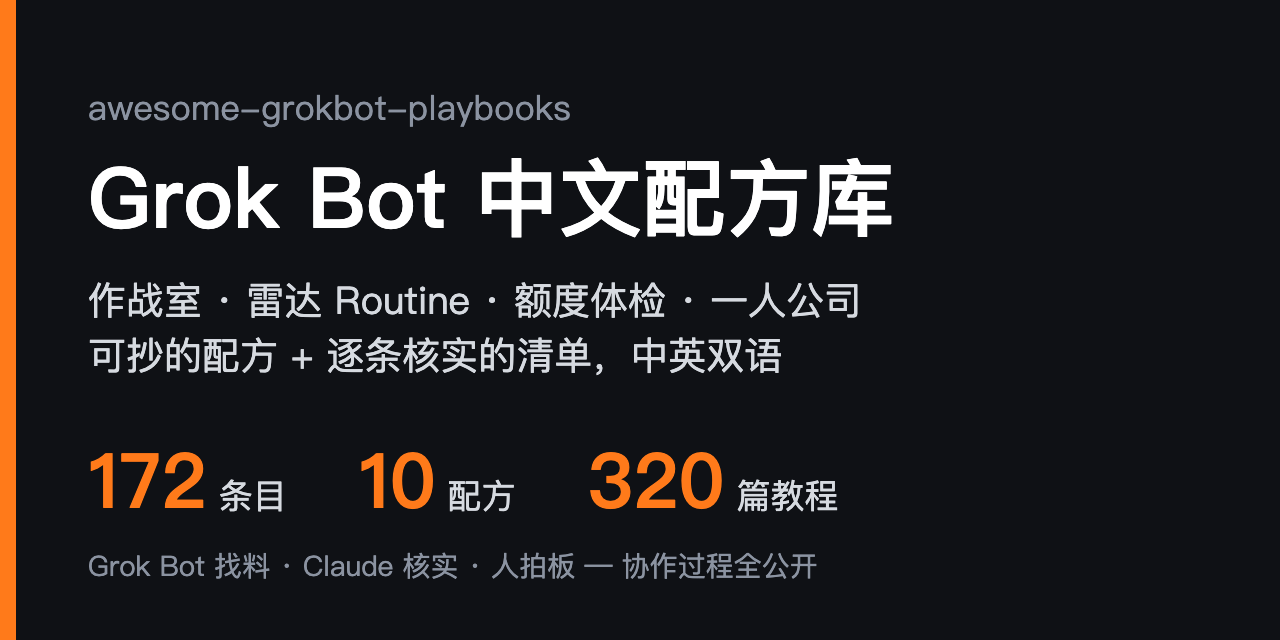
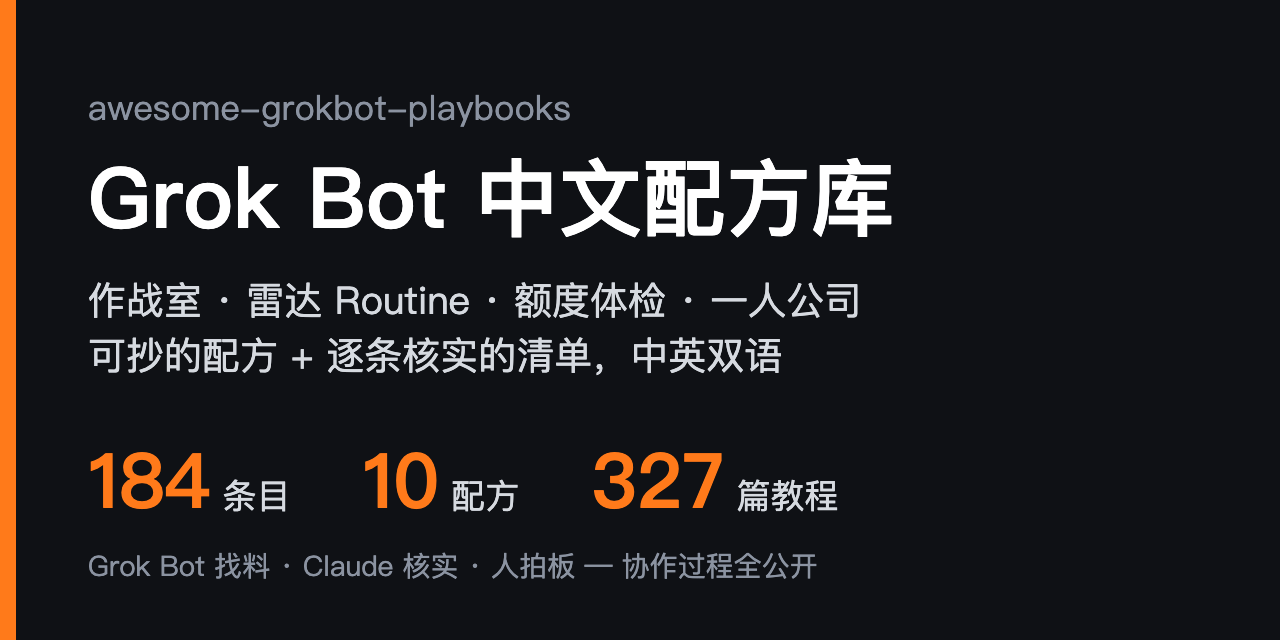
collab: loop #99 entries 172 -> 184, x-articles 287 -> 294 (tutorials 320 -> 327), recheck 11-02/11-03 batch

Changed region(s): [[0.0938, 0.6875, 0.25, 0.8125], [0.2812, 0.7188, 0.4062, 0.8125], [0.4688, 0.6875, 0.5625, 0.8125]]

diff --git a/README.en.md b/README.en.md
@@ -8,9 +8,9 @@
 
 <p align="center">
   <a href="https://github.com/sit-in/awesome-grokbot-playbooks/stargazers"><img src="https://img.shields.io/github/stars/sit-in/awesome-grokbot-playbooks?style=flat-square&color=ff7a1a" alt="Stars"></a>
-  <img src="https://img.shields.io/badge/entries-172-blue?style=flat-square" alt="Entries">
+  <img src="https://img.shields.io/badge/entries-184-blue?style=flat-square" alt="Entries">
   <img src="https://img.shields.io/badge/recipes-10-blueviolet?style=flat-square" alt="Recipes">
-  <img src="https://img.shields.io/badge/last%20verified-2026--11--01-success?style=flat-square" alt="Last verified">
+  <img src="https://img.shields.io/badge/last%20verified-2026--11--03-success?style=flat-square" alt="Last verified">
   <a href="https://github.com/sit-in/awesome-grokbot-playbooks/actions/workflows/link-check.yml"><img src="https://github.com/sit-in/awesome-grokbot-playbooks/actions/workflows/link-check.yml/badge.svg" alt="link-check"></a>
   <a href="CONTRIBUTING.en.md"><img src="https://img.shields.io/badge/PRs-welcome-brightgreen?style=flat-square" alt="PRs welcome"></a>
   <img src="https://img.shields.io/badge/unofficial-lightgrey?style=flat-square" alt="Unofficial">
@@ -25,10 +25,10 @@
 
 | | |
 |---:|---|
-| **172** | entries, each checked via the GitHub API or the live page: it exists, is still maintained and is actually about Grok Bot; license caveats are noted in the review |
+| **184** | entries, each checked via the GitHub API or the live page: it exists, is still maintained and is actually about Grok Bot; license caveats are noted in the review |
 | **10** | copy-paste recipes in one format: scenario → inputs → steps → prompt → output → pitfalls, all examples sanitized |
 | **3 levels** | of verification: ✅ run end-to-end · 🔍 docs and config reviewed · no mark = repo verified only. ✅ is only for things actually run |
-| **320** | curated community tutorials and X articles ([33 tutorials](docs/community-tutorials.md) + [287 articles from top X creators](docs/x-articles.md)) plus the maintainer's own series, each checked for liveness, author and date |
+| **327** | curated community tutorials and X articles ([33 tutorials](docs/community-tutorials.md) + [294 articles from top X creators](docs/x-articles.md)) plus the maintainer's own series, each checked for liveness, author and date |
 | **2 AIs** | maintain it: Grok Bot scouts daily, Claude Code verifies and writes reviews, a human makes the calls. The full log is public in [`.collab/`](.collab/README.md) |
 
 Compared with the English ecosystem index [awesome-grok-bot](https://github.com/ZeroPointRepo/awesome-grok-bot), which is broad, this repo focuses on **solo founders, multi-bot war rooms, radar routines and copy-paste recipes**. Quality over quantity.
@@ -61,19 +61,19 @@ It is a different product from the Grok chat assistant and the Grok Build coding
 
 ## 🆕 Recently added
 
+- **11-03** Added twelve: run start and finish cards [run-cards](https://github.com/rystedtcreative/run-cards), Discord DMs that wake your bot [grok-discord-bridge](https://github.com/RealDragonJT/grok-discord-bridge), messaging with Codex Desktop threads [GrokRelay](https://github.com/w-yyh/grok-relay), taking over local coding agents via Herdr [grokbot-bridge-herdr](https://github.com/Phoobobo/grokbot-bridge-herdr), keeping the cloud computer awake [bot-keepalive](https://github.com/realTaki/bot-keepalive), a local team dashboard [Grokbot City](https://github.com/sleeplesshan/grokbot-city), the open template catalog [Markcial/bots](https://github.com/Markcial/bots), plus Nix packaging, a token one-pager, a DJ mix pipeline, a read-only Strava MCP and agent-mesh; X articles grew to 294
 - **11-01** Added fifteen: the 800-template community directory [Grok Bot Shelf](https://grokbotshelf.com), a client for people with many bots [GrokDeck](https://github.com/Gamedesigner/grokdeck), Siri / HomePod access via [Homebot](https://github.com/lumpinif/Homebot), duplicate-safe task handoff [Grok Bot Bridge](https://github.com/runesleo/grok-bot-bridge), headless Linux servers as bot computers with [grokbot-tunnel](https://github.com/exa-pub/grokbot-tunnel), an Omarchy voice hotkey, the multi-bot ops handbook [grok-bot-ops](https://github.com/yohei1126/grok-bot-ops), and three hardware builds: a voice orb, a Stack-chan style companion and a Pixel Tablet face, plus the self-updating bot catalog template [Bot Catalog](https://github.com/JaxonWright/bot-catalog-for-grok-bot-template), the [bots skill](https://github.com/raphaelsalaja/skills/tree/main/skills/bots) that puts your bots on your site, the local project dashboard [Desk](https://github.com/TeebooTed/desk), the encrypted mail viewer [Grok Bot Inbox](https://github.com/mascarock/grokbot-inbox) and [Vesper](https://github.com/Vedant817/vesper-grok-bot-bridge) for supervising coding agents; X articles grew to 287
 - **10-31** Added eight: Windows desktop bot beacons [Bot Beacons](https://github.com/SnazzyGaz/bot-beacons), encrypted incremental cloud-computer backups [Grok Box](https://github.com/dorukardahan/grokbox), terminal agents handing tasks to bots with [grokctl](https://github.com/lucasjsbarbosa/grokctl), a task mailbox shared by Claude and bots [agent-relay](https://github.com/pawelmical/agent-relay), the Tesla status plugin [Vehicle Fleet](https://github.com/matthew-rutledge-dev/grokbot-vehicle-fleet), a local quota check-in dashboard [Usage & Check-in](https://github.com/yuehzhan/grokbot-usage-checkin), a rescue kit for templates missing skills [Unfinished Botness](https://github.com/brefledev/unfinished-botness) and a template repo that pulls the latest skill every run [grokbot-skills (datadda27)](https://github.com/datadda27/grokbot-skills)
-- **10-30** Added one: paced directory-backlink playbook [backlink-pilot](https://github.com/s87343472/backlink-pilot); removed grok-starter-kit after its repo was deleted; X articles grew to 265
 
 Full history: [README commits](https://github.com/sit-in/awesome-grokbot-playbooks/commits/main/README.md).
 
 ## 📚 Contents
 
 - [Official & SDK](#-official--sdk) (6) - official docs, marketplace, SDKs and CLIs
-- [Templates & directories](#-templates--directories) (17) - template libraries, bot-share indexes and use-case sites; check here first
-- [Skills & Playbooks](#-skills--playbooks) (62) - skills, MCP, single templates, copy-paste profiles
-- [Multi-bot teams](#-multi-bot-teams) (35) - war rooms, coordinators, multi-agent work
-- [Routines & Digests](#-routines--digests) (11) - scheduled radars, weekly reviews, usage control
+- [Templates & directories](#-templates--directories) (18) - template libraries, bot-share indexes and use-case sites; check here first
+- [Skills & Playbooks](#-skills--playbooks) (71) - skills, MCP, single templates, copy-paste profiles
+- [Multi-bot teams](#-multi-bot-teams) (36) - war rooms, coordinators, multi-agent work
+- [Routines & Digests](#-routines--digests) (12) - scheduled radars, weekly reviews, usage control
 - [Chinese solo-founder](#-chinese-solo-founder) (6) - global support, WeChat, Chinese configs
 - [Self-hosted bots](#-self-hosted-bots) (16) - stay off the cloud, bring your own model
 - [Hardware](#-hardware) (7) - give your bot a physical front end
@@ -111,6 +111,7 @@ Full history: [README commits](https://github.com/sit-in/awesome-grokbot-playboo
 - [Lingverse](https://github.com/lingverse-ai/lingverse) - A Chinese series of Grok Bots: each one is a one-click-import bot with a single job. The first, Moling, writes long-form posts from work you actually did, then adapts them for each platform. Content CC BY 4.0, code MIT. Tags: `template` `writing` `chinese`
 - [Chief of Staff](https://github.com/twhit223/grok-bot-cos) - A reproducible chief-of-staff bot: goals and open items, a morning focus brief, a midday inbox check, an end-of-day brief, next-day meeting prep at night and a Friday wind-down as five routines, plus skills for 1:1 prep and meeting notes; connects Notion, Slack, Calendar, Gmail, Drive and Linear. The share link is still team-scoped for some teams, so you can build it by hand from the repo. MIT. Tags: `template` `chief-of-staff` `routine`
 - [Bot Catalog for Grok Bot](https://github.com/JaxonWright/bot-catalog-for-grok-bot-template) - A template for a self-updating bot catalog. A bot added from a share link is a copy, so the creator's later fixes never reach it; here every bot carries a daily routine that checks the repo for a newer release of itself, shows you the changelog and a diff link, and updates only if you say yes (automatic checks can be turned off). To start your own catalog, add the Catalog Manager and say "Set up my catalog": it connects GitHub, creates the repo from the template, adds branch protection and remembers which personal details must never be published, and nothing personal is pushed without your OK in chat. Needs the GitHub connector; the template is GPL-3.0, your own bots can use another license. Tags: `directory` `templates` `routine` `github`
+- [Markcial/bots](https://github.com/Markcial/bots) - An open catalog of Grok Bot templates, including the Distributed Workforce Router and the Perpetual Learning Machine, each with a share link plus scripts and starter files where the bot needs tools. Everything is plain text, so you can read a bot before installing it and change it afterwards. The router decides between doing a task itself, recommending a template from the catalog and drafting a new bot for a job that keeps coming back. MIT. Tags: `templates` `directory` `router`
 
 <sub>[⬆ Back to contents](#-contents)</sub>
 
@@ -178,6 +179,15 @@ Full history: [README commits](https://github.com/sit-in/awesome-grokbot-playboo
 - [bots skill (raphaelsalaja/skills)](https://github.com/raphaelsalaja/skills/tree/main/skills/bots) - Puts the Grok Bots you pick on your personal site. You paste one prompt into your primary bot: it lists every bot and waits for your picks, has each picked bot check itself for emails, client names, internal links, keys and other private details and propose fixes that apply only after you approve, then hands you a checklist, because publishing the template and copying its link stay with you. Your coding agent then builds one data file, a shakeable physics pile, cards and an org-chart page, with shapes and colors taken from each bot's public page. Part of the author's collection of interface skills; install with `npx skills add raphaelsalaja/skills`; needs matter-js. MIT. Tags: `skill` `portfolio` `share` `privacy`
 - [Desk](https://github.com/TeebooTed/desk) - A single-file local project dashboard you open as `file://`, organized by project and progress rather than kanban columns. Its "Message bot" box sends a note through a local relay to a webhook routine, and a twice-daily routine writes status.json to refresh progress. Paste the setup prompt from the README to your bot to install it; the webhook key goes only into the relay config. Data stays on your machine by default, with an optional Solid pod. The one-line install is `curl | bash` and sets up the local relay and autostart, so clone and read install.sh first if you prefer. MIT. Tags: `dashboard` `webhook` `routine` `local`
 - [Grok Bot Inbox](https://github.com/mascarock/grokbot-inbox) - A web inbox for the mail your bot receives, deployed to your own free Vercel project. On every new message the bot publishes an encrypted snapshot; the key sits after `#` in your link and never reaches a server, so the page only stores ciphertext. Replying from the page leaves an encrypted draft for the bot, which shows a draft card in chat within about 15 minutes and sends only after you confirm. The one-click template link in the README is still a placeholder, so for now deploy it by following the docs; there is a live demo. MIT. Tags: `email` `inbox` `privacy` `vercel`
+- [run-cards](https://github.com/rystedtcreative/run-cards) - Put `run-cards` in front of a Grok Build or Claude Code command when a bot hands off a long coding run: you get an opening card (tool, model, effort, prompt) and an honest closing card (how it ended, duration, tokens, the start of the output), each as a PNG and a Markdown version, so the chat shows whether the run really finished. Also works as a plain CLI wrapper. Unofficial. MIT. Tags: `coding-agent` `status` `cli`
+- [grokbot-mixer](https://github.com/davidgeorgehope/grokbot-mixer) - A DJ Grok Bot's liquid DnB mix pipeline: full-track analysis picks vocal-free mix points, 16-bar equal-power crossfades, guardrail scripts, autofix and an eval scorer, producing 60-minute-plus continuous mixes with audio-reactive visuals. It is a code snapshot of the author's bot workspace with no audio, so bring your own tracks; useful as a reference for putting guardrails and scoring around a creative bot. MIT. Tags: `music` `creative` `eval`
+- [grok-discord-bridge](https://github.com/RealDragonJT/grok-discord-bridge) - When someone DMs or @mentions your own Discord bot, it POSTs the event to a Grok Bot routine webhook to wake your bot, which replies through the Discord REST API with the same bot token. No shared bot or hosted relay in the middle, and there is an owner allowlist. AGENT-SETUP.md lets an agent install it; you only supply the bot token, webhook URL and key. MIT. Tags: `discord` `webhook` `routine`
+- [GrokRelay](https://github.com/w-yyh/grok-relay) - Lets Grok Bot agents and existing Codex Desktop threads find each other, exchange messages and get replies in their original conversations, so both keep their context and you can follow the exchange in both apps. Public alpha, Windows only; the desktop adapters use internal or unstable interfaces; unofficial. Chinese docs. MIT. Tags: `codex` `bridge` `windows`
+- [grokbot-bridge-herdr](https://github.com/Phoobobo/grokbot-bridge-herdr) - Through Herdr, Grok Bot can launch, watch and take over your local coding-agent panes (grok, codex), and you can hand your own panes to the bot and take them back. When an agent goes done, idle or blocked, it sends a small deduplicated JSON to a webhook with no terminal output or secrets. Also works with ChatGPT dots. Docs in English and Chinese. MIT. Tags: `herdr` `coding-agent` `webhook`
+- [grok-bot-nix](https://github.com/ponelat/grok-bot-nix) - Unofficial Nix packaging of the Grok Bot Linux desktop app (the official AppImage): a pinned, hash-checked release or an always-latest launcher, usable from flakes or a classic configuration.nix. The repo holds only Nix code and downloads the app from the official CDN at build time; tested on x86_64, aarch64 untested. MIT. Tags: `linux` `nix` `desktop`
+- [bot-keepalive](https://github.com/realTaki/bot-keepalive) - A skill that keeps the cloud computer awake during long jobs. The computer suspends after about 5 idle minutes and freezes background `nohup` and `tmux` work, and routines (5-minute minimum, often late) can't cover it. It registers the jobs to guard and runs one low-effort subagent that makes a tool call about every 13 minutes until they finish. Guarding keeps spending usage, about 1.8M tokens a day in the author's own use. English and Chinese docs. MIT. Tags: `skill` `computer` `long-running`
+- [strava-grokbot-bridge](https://github.com/naoiseirwin/strava-grokbot-bridge) - A read-only Strava MCP (fork of eddmann/strava-mcp) that runs on your own Grok Bot cloud computer as a stdio command, with no public host. Strava authorization is done on the cloud computer via Take over, and tokens never go into chat. Not affiliated with Strava; same author as the Tesla connector above. MIT. Tags: `mcp` `fitness` `read-only`
+- [agent-mesh](https://github.com/xiaozhenliu/agent-mesh) - Puts local Claude Code, Codex, pi and DeepSeek Harness sessions and a cloud Grok Bot in one private Reason Network team: either side can start a conversation and replies wake the other side, with no public IP, Docker or separate server. macOS only; includes an agent install runbook, cloud setup and routine prompts, docs in English and Chinese. MIT. Tags: `coding-agent` `bridge` `routine`
 
 <sub>[⬆ Back to contents](#-contents)</sub>
 
@@ -218,6 +228,7 @@ Full history: [README commits](https://github.com/sit-in/awesome-grokbot-playboo
 - [agent-relay](https://github.com/pawelmical/agent-relay) - A remote MCP task mailbox on Cloudflare Workers: Grok Bot (bearer token) and Claude (OAuth) leave tasks for each other, claim them and write results back, and a webhook can wake the assignee's routine with a doorbell that carries no task text. One-click deploy, now open to any MCP agent. Everyone shares one secret, and finished tasks are deleted after 30 days. MIT. Tags: `mcp` `cloudflare` `handoff`
 - [grok-bot-ops](https://github.com/yohei1126/grok-bot-ops) - Ops hygiene for running several bots, documentation only: where shared rules live, when to create or retire a bot, long-lived bots versus one-off chats, and a monthly audit checklist, aimed at lower usage and cleaner handoffs. Apache-2.0. Tags: `multi-agent` `ops` `usage`
 - [Vesper Grok Bot Bridge](https://github.com/Vedant817/vesper-grok-bot-bridge) - Makes Grok Bot the supervisor of your coding agents: it starts a task, reads the reply, answers delegated technical questions, asks for rework in the same session and checks real verification output before accepting. Two published templates: T3 Code users go through T3 Connect with no bridge to install; other coding CLIs need the author's local MCP bridge (npm package grok-bot-mcp-agent), which can enroll several CLIs. Importing a template installs no software and signs in to no coding account. CI. MIT. Tags: `coding-agent` `mcp` `supervisor`
+- [Grokbot City](https://github.com/sleeplesshan/grokbot-city) - A local dashboard and shared wiki for a bot team: write task briefs, assign one bot or a Boss with up to five members, and once you dispatch, the main bot picks it up and reports each step through a CLI, with results kept in the wiki. The app does not connect to Grok or run a model; your main bot needs access to the computer it runs on. English and Korean docs. MIT. Tags: `dashboard` `team` `wiki`
 
 <sub>[⬆ Back to contents](#-contents)</sub>
 
@@ -234,6 +245,7 @@ Full history: [README commits](https://github.com/sit-in/awesome-grokbot-playboo
 - [Grok Bot Usage & Check-in](https://github.com/yuehzhan/grokbot-usage-checkin) - A local web dashboard that logs your weekly quota percentage and each day's spend, plus a note of what you had the bot do, so you can later look up which days cost the most; data stays on your machine, with one-click installers for Windows, Mac and Linux. Automatic reading runs Grok Build in the background and reads its `/usage` screen; it is tested on Linux and still experimental on Windows and Mac, where you can type the percentage in by hand. Note that the installer sets Grok Build's default permission mode to auto. MIT. Tags: `quota` `dashboard` `local`
 - [GrokGauge](https://github.com/stevencombs/GrokGauge) - A macOS menu-bar usage gauge: one ring for your whole SuperGrok weekly pool, split into how much Grok, Grok Bot and Cursor each used, plus days to reset; installs with one Homebrew command. Unofficial and reads undocumented data sources that can change; not notarized by Apple, so the cask removes the quarantine flag for you. MIT. Tags: `quota` `macos` `menu-bar`
 - [GrugBot Console](https://github.com/devrecated/grokbot-management-console) - Routine control panel: see every bot's routines and runs on one page, pause, reschedule or edit prompts, stop everything with one button, and read system logs from the cloud computer. Self-host on Next.js + Postgres with a few scripts on the box reporting back; check which logs it reads before deploying. MIT. Tags: `routine` `dashboard` `self-hosted`
+- [Grok Bot token one-pager (smdistefano)](https://github.com/smdistefano/grok-bot) - A post-mortem of a day that burned a week of usage: five ways tokens get spent (context tax, fan-out, loops, skill bloat, wakeups you didn't type) with expensive versus cheap asks, plus standing rules such as asking after five tool calls, no polling, capping on-demand spend and pausing unused routines. Apache-2.0. Tags: `budget` `tokens` `rules`
 
 <sub>[⬆ Back to contents](#-contents)</sub>
 
@@ -293,7 +305,7 @@ Full history: [README commits](https://github.com/sit-in/awesome-grokbot-playboo
 - [Two bots leaked a CEO's bank balance to Slack: repro and guardrail](https://github.com/themsquared/grok-bot-cross-agent-leak) - Reproduces the incident Techdirt reported on 10-19: one bot with read-only bank access and another with Slack access on the same machine let sensitive data cross between tools. Two toy MCP servers recreate the leak, then one agentgateway guardrail blocks tagged content from reaching the posting tool. Comes with the author's write-up. Apache-2.0. Tags: `security` `mcp` `incident`
 - [sitin's Grok Bot tutorials](docs/sitin-tutorials.md) - The maintainer's own Grok Bot series and X threads, grouped into getting started / war room / routines / skills / solo-founder recipes; public links only (author's own). (Chinese) Tags: `chinese` `tutorials` `author`
 - [Community Grok Bot tutorials](docs/community-tutorials.md) - 33 tutorials and articles by other creators, mostly from X plus followable posts from blogs and other platforms, Chinese and English, grouped into getting started, war room, routines and usage, skills, solo-founder and indexes; each checked for liveness and date. (Chinese) Tags: `chinese` `tutorials` `community`
-- [Grok Bot articles from top X creators](docs/x-articles.md) - 287 long-form X articles and threads in Chinese and English, grouped into getting started, war room, routines and usage, skills, and solo-founder; only tutorials and real setups with genuine traction, and any numbers are the authors' own claims. (Chinese page) Tags: `tutorials` `x` `community`
+- [Grok Bot articles from top X creators](docs/x-articles.md) - 294 long-form X articles and threads in Chinese and English, grouped into getting started, war room, routines and usage, skills, and solo-founder; only tutorials and real setups with genuine traction, and any numbers are the authors' own claims. (Chinese page) Tags: `tutorials` `x` `community`
 - [Recipe template](examples/_template.md) - Format to follow before submitting a recipe: scenario / input / steps / prompt / output / pitfalls. (Chinese) Tags: `template` `learning`
 
 <sub>[⬆ Back to contents](#-contents)</sub>

diff --git a/.collab/recheck.md b/.collab/recheck.md
@@ -23,45 +23,27 @@ Claude 维护。仓库没过收录门槛（见 [CONTRIBUTING.md](../CONTRIBUTING
 | [fredericalix/my-botstack](https://github.com/fredericalix/my-botstack) | 11-08 | 2★ · MIT · 建 10-18 · 最近提交 10-18 | 11-01 第 2 次延期：仍无新提交，再不过线就移出。 |
 | [shagghiesuperstar/veilbreaker](https://github.com/shagghiesuperstar/veilbreaker) | 11-08 | 0★ · MIT · 建 10-18 · 最近提交 10-21 | 11-01 第 2 次延期：仍无新提交，再不过线就移出。 |
 | [stland6338/ai-tool-inventory](https://github.com/stland6338/ai-tool-inventory) | 11-08 | 0★ · MIT · 建 10-18 · 最近提交 10-18 | 11-01 第 2 次延期：仍无新提交，再不过线就移出。 |
-| [ChamathRosh/whatshouldmybotdo-connector](https://github.com/ChamathRosh/whatshouldmybotdo-connector) | 11-02 | 0★ · MIT · 建 10-19 · 最近提交 10-19 | 10-26 第 1 次延期：建仓后没有新提交；主仓 grok-bot-templates 已收，这个只读 MCP 是作者网站的伴侣 |
-| [Gitmaxd/grok-bot-rocket-template](https://github.com/Gitmaxd/grok-bot-rocket-template) | 11-02 | 1★ · MIT · 建 10-19 · 最近提交 10-19 | 10-26 第 1 次延期：建仓后没有新提交 |
-| [StefMVP/grokbot-exporter](https://github.com/StefMVP/grokbot-exporter) | 11-02 | 0★ · MIT · 建 10-19 · 最近提交 10-19 | 10-26 第 1 次延期：建仓后没有新提交 |
-| [TheSethRose/grokbot-bridge](https://github.com/TheSethRose/grokbot-bridge) | 11-02 | 0★ · MIT · 建 10-19 · 最近提交 10-19 | 10-26 第 1 次延期：建仓后没有新提交；同类 claude-grok-bridge 已收 |
-| [treverhatch-glitch/hatchfield-ai-studio-template](https://github.com/treverhatch-glitch/hatchfield-ai-studio-template) | 11-02 | 1★ · MIT · 建 10-19 · 最近提交 10-19 | 10-26 第 1 次延期：建仓后没有新提交；偏游戏制作，看是否对题 |
-| [rthomas24/grok-bot-mcp](https://github.com/rthomas24/grok-bot-mcp) | 11-02 | 0★ · MIT · 建 10-14 · 最近提交 10-14 | 10-26 第 1 次延期：满 7 天但建仓后没有新提交。本机驱动 macOS 桌面端的 MCP（列 bot、读聊天、发消息、答多选题），带 Claude Code 插件；和已收的 cherwinyu/grok-bot-mcp 同名不同仓 |
-| [smoothvr/grok-bot-home-assistant-ui](https://github.com/smoothvr/grok-bot-home-assistant-ui) | 11-02 | 0★ · MIT · 建 10-26 · 最近提交 10-26 | 墙挂平板的胶囊眼界面：灯光、音乐走本机 Home Assistant，真正的问题交给你自己的 Grok Bot；原 stefanvr82 名下，已改名；过线放「硬件」 |
-| [situker/situk-mars](https://github.com/situker/situk-mars) | 11-02 | 0★ · MIT · 建 10-26 · 最近提交 10-26 | 多 bot 记功和晋升 skill：业务 bot 交证据，Merit Officer 审，人批后入账；中英双语，有 CI 和 release |
-| [Kinfxhk/hermes-grok-bot-bridge](https://github.com/Kinfxhk/hermes-grok-bot-bridge) | 11-02 | 0★ · MIT · 建 10-26 · 最近提交 10-26 | Hermes 插件经 routine webhook 叫醒 Grok Bot 在云电脑上跑活，跑完回调进同一个 Hermes 对话 |
-| [rystedtcreative/run-cards](https://github.com/rystedtcreative/run-cards) | 11-02 | 0★ · MIT · 建 10-26 · 最近提交 10-26 | bot 把长编码活交给 Grok Build / Claude Code 时，开跑和收尾各贴一张状态卡 |
-| [Tkkdy/grok-local-bridge](https://github.com/Tkkdy/grok-local-bridge) | 11-02 | 0★ · MIT · 建 10-26 · 最近提交 10-26 | 让 Grok Bot 经 OAuth 保护的 HTTPS 入口调用你 Windows 本机批准过的 MCP，工具白名单、按工具限流；作者自标实验性 |
-| [MagicLizi/grok-bot-hub](https://github.com/MagicLizi/grok-bot-hub) | 11-02 | 0★ · 无 License · 建 10-26 · 最近提交 10-26 | macOS 多开 Grok Bot：每个实例用独立 user-data-dir 登不同账号，崩溃重启、卡死检查、掉线通知，定时检查云电脑并自动唤醒；到期仍无 License 就移出 |
-| [AdventureNLearn/build-bridge](https://github.com/AdventureNLearn/build-bridge) | 11-02 | 0★ · 无 License · 建 10-26 · 最近提交 10-27 | 本机签名任务桥：Grok Bot 写作业并用本机密钥签名，Windows 监视器验签后才跑 Grok Build，webhook 只回唤醒不带正文；到期仍无 License 就移出 |
-| [davidgeorgehope/grokbot-mixer](https://github.com/davidgeorgehope/grokbot-mixer) | 11-02 | 0★ · MIT · 建 10-26 · 最近提交 10-26 | 让 Grok Bot 当 DJ：给曲目清单做 60 分钟以上的对拍 DnB 混音，带确定性护栏和 eval 打分器；创作型 bot 范例，过线放「技能与玩法」 |
-| [RealDragonJT/grok-discord-bridge](https://github.com/RealDragonJT/grok-discord-bridge) | 11-02 | 0★ · MIT · 建 10-26 · 最近提交 10-26 | 自带 Discord bot，有人私信或 @ 时把事件发到 Grok Bot routine 的 webhook 唤醒 bot，带主人白名单；过线放「Routine 与摘要」或「技能与玩法」 |
-| [siddhit/grokbot-deck-builder](https://github.com/siddhit/grokbot-deck-builder) | 11-02 | 0★ · MIT · 建 10-26 · 最近提交 10-26 | 离线 HTML 幻灯片生成器，由 bot 访谈演讲者后改 deck.json；只有 1 次提交 |
-| [mpotter2002/hermes-grok-bridge](https://github.com/mpotter2002/hermes-grok-bridge) | 11-03 | 0★ · 无 License · 建 10-27 · 最近提交 10-27 | stdio MCP 把 Grok Bot 对话转进 Hermes Agent 再原样回传，Hermes 反向经 routine webhook 找 bot；到期仍无 License 就移出。同类 Hermes 桥已有好几个在表里，过线时只挑最好的一两个收 |
-| [dkapo88/grokbot-t3-orchestration](https://github.com/dkapo88/grokbot-t3-orchestration) | 11-03 | 0★ · MIT · 建 10-27 · 最近提交 10-27 | 让 Grok Bot 当 PM 在 T3 Code 里排开发活：skills + 启动/调度/归档脚本 + routine 监控，config 管模型路由、合并策略和成本上限；过线放「多 Bot 团队」 |
-| [initcatcher/grokbot-mcp](https://github.com/initcatcher/grokbot-mcp) | 11-03 | 0★ · MIT · 建 10-27 · 最近提交 10-27 | 本机 MCP，经 Cursor BDK 让 Claude Code 等按名字给 Grok Bot 发消息收回复；过线时和 claude-grok-bridge、Grok Bridge 比是否重复 |
-| [BBridgeers/grok-code-audit-bots](https://github.com/BBridgeers/grok-code-audit-bots) | 11-03 | 0★ · 无 License · 建 10-27 · 最近提交 10-27 | 六个审计 bot（审计、UI、API、安全、回归、汇总），只出 PASS / BLOCK / HOLD，不改代码不合并；到期仍无 License 就移出 |
-| [Markcial/bots](https://github.com/Markcial/bots) | 11-03 | 0★ · MIT · 建 10-27 · 最近提交 10-27 | 可版本化的 Grok Bot 模板源仓：catalog.json + _template + 两套配方（Workforce Router / Learning Machine）；到期看有没有新提交 |
-| [sleeplesshan/grokbot-city](https://github.com/sleeplesshan/grokbot-city) | 11-03 | 0★ · MIT · 建 10-27 · 最近提交 10-27 | 本机多 Bot 作战看板 + 持久 wiki，Bot 经 CLI 更新状态和知识；到期看有没有新提交 |
-| [w-yyh/grok-relay](https://github.com/w-yyh/grok-relay) | 11-03 | 0★ · MIT · 建 10-27 · 最近提交 10-27 | Grok Bot 和 Codex Desktop 已有会话互发消息、回复回到原会话；Windows alpha；过线时和 claude-grok-bridge、Grok Bridge 比是否重复 |
-| [zeke1031031/herdr-grokbot-notify](https://github.com/zeke1031031/herdr-grokbot-notify) | 11-03 | 0★ · MIT · 建 10-27 · 最近提交 10-27 | Herdr 插件：任一本机编码 agent 完成、卡审批或退出时向 Grok Bot 的 webhook routine 发 pane 元数据，不发终端输出；过线时和 devicki/herdr-away-signal、herdrbot 一起看，择优或合成一行 |
-| [Phoobobo/grokbot-bridge-herdr](https://github.com/Phoobobo/grokbot-bridge-herdr) | 11-03 | 0★ · MIT · 建 10-27 · 最近提交 10-28 | Herdr 插件 + gbb CLI：bot 经远程 shell 启动、盯、接管本机编码 agent 窗格，状态变化发 webhook（不含终端输出）；过线时和 zeke1031031/herdr-grokbot-notify 择优或合成一行 |
-| [ponelat/grok-bot-nix](https://github.com/ponelat/grok-bot-nix) | 11-03 | 0★ · 打包代码 MIT（API 显示 NOASSERTION）· 建 10-27 · 最近提交 10-27 | 非官方 Nix 打包，钉 hash 和「启动拉最新」两种，支持非 flake 的 configuration.nix；Grok Bot 本体不随仓分发 |
-| [smdistefano/grok-bot](https://github.com/smdistefano/grok-bot) | 11-03 | 0★ · Apache-2.0 · 建 10-27 · 最近提交 10-27 | 额度烧穿后的复盘一页纸：token 花在哪 + 常驻省额度规则；收录短评不引用作者用量截图里的数字 |
-| [realTaki/bot-keepalive](https://github.com/realTaki/bot-keepalive) | 11-03 | 1★ · MIT · 建 10-27 · 最近提交 10-27 | 长任务防云电脑挂起的 skill：任务登记 + low effort 守护 subagent 轮询；短评写明守护期间持续耗额度 |
-| [Silousr/grokbot-model-connector](https://github.com/Silousr/grokbot-model-connector) | 11-03 | 0★ · MIT · 建 10-27 · 最近提交 10-27 | Bot 派活给本机 Codex CLI / Claude Code，结束或卡住时 webhook 叫醒 Bot；过线时和 claude-grok-bridge、Grok Bridge、grokbot-mcp 比是否重复 |
-| [adamsonwalter/grokbot-phone-caller](https://github.com/adamsonwalter/grokbot-phone-caller) | 11-03 | 0★ · MIT · 建 10-20 · 最近提交 10-20 | 10-27 第 1 次延期：建仓后没有新提交 |
-| [deadsimple-email/deadsimple-plugins](https://github.com/deadsimple-email/deadsimple-plugins) | 11-03 | 0★ · MIT · 建 10-20 · 最近提交 10-20 | 10-27 第 1 次延期：建仓后没有新提交；商业托管服务，按「商业类每分类最多 1 条」处理 |
-| [devicki/herdr-away-signal](https://github.com/devicki/herdr-away-signal) | 11-03 | 0★ · MIT · 建 10-20 · 最近提交 10-20 | 10-27 第 1 次延期：建仓后没有新提交；和 herdrbot 合成一行 |
-| [devicki/herdrbot](https://github.com/devicki/herdrbot) | 11-03 | 0★ · MIT · 建 10-20 · 最近提交 10-20 | 10-27 第 1 次延期：建仓后没有新提交；和 herdr-away-signal 合成一行 |
-| [fal-ai-community/fal-grok-plugin](https://github.com/fal-ai-community/fal-grok-plugin) | 11-03 | 0★ · MIT · 建 10-20 · 最近提交 10-20 | 10-27 第 1 次延期：建仓后没有新提交 |
-| [naoiseirwin/strava-grokbot-bridge](https://github.com/naoiseirwin/strava-grokbot-bridge) | 11-03 | 0★ · MIT · 建 10-20 · 最近提交 10-20 | 10-27 第 1 次延期：建仓后没有新提交 |
-| [senscho/grok-codex-bridge-public](https://github.com/senscho/grok-codex-bridge-public) | 11-03 | 0★ · MIT · 建 10-20 · 最近提交 10-20 | 10-27 第 1 次延期：建仓后没有新提交 |
-| [sumanthneerumalla/thebrowserfarm-plugin](https://github.com/sumanthneerumalla/thebrowserfarm-plugin) | 11-03 | 0★ · MIT · 建 10-20 · 最近提交 10-20 | 10-27 第 1 次延期：建仓后没有新提交 |
-| [xiaozhenliu/agent-mesh](https://github.com/xiaozhenliu/agent-mesh) | 11-03 | 1★ · MIT · 建 10-20 · 最近提交 10-20 | 10-27 第 1 次延期：建仓后没有新提交 |
-| [iconnectgroupco/grokbot-skills](https://github.com/iconnectgroupco/grokbot-skills) | 11-03 | 0★ · 混合许可（各 skill 带原许可）· 建 10-20 · 最近提交 10-20 | 10-27 第 1 次延期：建仓后没有新提交；40+ 个 SKILL.md，多为改编 ECC、claude-ads 等；过线时逐个看原许可是否允许改编再发 |
+| [Gitmaxd/grok-bot-rocket-template](https://github.com/Gitmaxd/grok-bot-rocket-template) | 11-09 | 1★ · MIT · 建 10-19 · 最近提交 10-19 | 11-03 第 2 次延期：建仓后仍没有新提交，再不过线就移出 |
+| [StefMVP/grokbot-exporter](https://github.com/StefMVP/grokbot-exporter) | 11-09 | 0★ · MIT · 建 10-19 · 最近提交 10-19 | 11-03 第 2 次延期：建仓后仍没有新提交，再不过线就移出 |
+| [TheSethRose/grokbot-bridge](https://github.com/TheSethRose/grokbot-bridge) | 11-09 | 0★ · MIT · 建 10-19 · 最近提交 10-19 | 11-03 第 2 次延期：建仓后仍没有新提交，再不过线就移出；同类 claude-grok-bridge 已收 |
+| [rthomas24/grok-bot-mcp](https://github.com/rthomas24/grok-bot-mcp) | 11-09 | 0★ · MIT · 建 10-14 · 最近提交 10-14 | 11-03 第 2 次延期：建仓后仍没有新提交，再不过线就移出。本机驱动 macOS 桌面端的 MCP（列 bot、读聊天、发消息、答多选题），带 Claude Code 插件；和已收的 cherwinyu/grok-bot-mcp 同名不同仓 |
+| [smoothvr/grok-bot-home-assistant-ui](https://github.com/smoothvr/grok-bot-home-assistant-ui) | 11-09 | 0★ · MIT · 建 10-26 · 最近提交 10-26 | 11-03 第 1 次延期：建仓后没有新提交。墙挂平板的胶囊眼界面：灯光、音乐走本机 Home Assistant，真正的问题交给你自己的 Grok Bot；原 stefanvr82 名下，已改名；过线放「硬件」 |
+| [situker/situk-mars](https://github.com/situker/situk-mars) | 11-09 | 0★ · MIT · 建 10-26 · 最近提交 10-26 | 11-03 第 1 次延期：建仓后没有新提交。多 bot 记功和晋升 skill：业务 bot 交证据，Merit Officer 审，人批后入账；中英双语，有 CI 和 release |
+| [Kinfxhk/hermes-grok-bot-bridge](https://github.com/Kinfxhk/hermes-grok-bot-bridge) | 11-09 | 0★ · MIT · 建 10-26 · 最近提交 10-26 | 11-03 第 1 次延期：建仓后没有新提交。Hermes 插件经 routine webhook 叫醒 Grok Bot 在云电脑上跑活，跑完回调进同一个 Hermes 对话 |
+| [Tkkdy/grok-local-bridge](https://github.com/Tkkdy/grok-local-bridge) | 11-09 | 0★ · MIT · 建 10-26 · 最近提交 10-26 | 11-03 第 1 次延期：建仓后没有新提交。让 Grok Bot 经 OAuth 保护的 HTTPS 入口调用你 Windows 本机批准过的 MCP，工具白名单、按工具限流；作者自标实验性 |
+| [siddhit/grokbot-deck-builder](https://github.com/siddhit/grokbot-deck-builder) | 11-09 | 0★ · MIT · 建 10-26 · 最近提交 10-26 | 11-03 第 1 次延期：建仓后没有新提交。离线 HTML 幻灯片生成器，由 bot 访谈演讲者后改 deck.json；只有 1 次提交 |
+| [dkapo88/grokbot-t3-orchestration](https://github.com/dkapo88/grokbot-t3-orchestration) | 11-10 | 0★ · MIT · 建 10-27 · 最近提交 10-27 | 11-03 第 1 次延期：建仓后没有新提交。让 Grok Bot 当 PM 在 T3 Code 里排开发活：skills + 启动/调度/归档脚本 + routine 监控，config 管模型路由、合并策略和成本上限；过线放「多 Bot 团队」 |
+| [initcatcher/grokbot-mcp](https://github.com/initcatcher/grokbot-mcp) | 11-10 | 0★ · MIT · 建 10-27 · 最近提交 10-27 | 11-03 第 1 次延期：建仓后没有新提交。本机 MCP，经 Cursor BDK 让 Claude Code 等按名字给 Grok Bot 发消息收回复；过线时和 claude-grok-bridge、Grok Bridge 比是否重复 |
+| [zeke1031031/herdr-grokbot-notify](https://github.com/zeke1031031/herdr-grokbot-notify) | 11-10 | 0★ · MIT · 建 10-27 · 最近提交 10-27 | 11-03 第 1 次延期：建仓后没有新提交；同类 grokbot-bridge-herdr 已收，过线时看能否和它合成一行。Herdr 插件：任一本机编码 agent 完成、卡审批或退出时向 Grok Bot 的 webhook routine 发 pane 元数据，不发终端输出；过线时和 devicki/herdr-away-signal、herdrbot 一起看，择优或合成一行 |
+| [Silousr/grokbot-model-connector](https://github.com/Silousr/grokbot-model-connector) | 11-10 | 0★ · MIT · 建 10-27 · 最近提交 10-27 | 11-03 第 1 次延期：建仓后没有新提交。Bot 派活给本机 Codex CLI / Claude Code，结束或卡住时 webhook 叫醒 Bot；过线时和 claude-grok-bridge、Grok Bridge、grokbot-mcp 比是否重复 |
+| [adamsonwalter/grokbot-phone-caller](https://github.com/adamsonwalter/grokbot-phone-caller) | 11-10 | 0★ · MIT · 建 10-20 · 最近提交 10-20 | 11-03 第 2 次延期：建仓后仍没有新提交，再不过线就移出 |
+| [deadsimple-email/deadsimple-plugins](https://github.com/deadsimple-email/deadsimple-plugins) | 11-10 | 0★ · MIT · 建 10-20 · 最近提交 10-20 | 11-03 第 2 次延期：建仓后仍没有新提交，再不过线就移出；商业托管服务，按「商业类每分类最多 1 条」处理 |
+| [devicki/herdr-away-signal](https://github.com/devicki/herdr-away-signal) | 11-10 | 0★ · MIT · 建 10-20 · 最近提交 10-20 | 11-03 第 2 次延期：建仓后仍没有新提交，再不过线就移出；和 herdrbot 合成一行 |
+| [devicki/herdrbot](https://github.com/devicki/herdrbot) | 11-10 | 0★ · MIT · 建 10-20 · 最近提交 10-20 | 11-03 第 2 次延期：建仓后仍没有新提交，再不过线就移出；和 herdr-away-signal 合成一行 |
+| [fal-ai-community/fal-grok-plugin](https://github.com/fal-ai-community/fal-grok-plugin) | 11-10 | 0★ · MIT · 建 10-20 · 最近提交 10-20 | 11-03 第 2 次延期：建仓后仍没有新提交，再不过线就移出 |
+| [senscho/grok-codex-bridge-public](https://github.com/senscho/grok-codex-bridge-public) | 11-10 | 0★ · MIT · 建 10-20 · 最近提交 10-20 | 11-03 第 2 次延期：建仓后仍没有新提交，再不过线就移出 |
+| [sumanthneerumalla/thebrowserfarm-plugin](https://github.com/sumanthneerumalla/thebrowserfarm-plugin) | 11-10 | 0★ · MIT · 建 10-20 · 最近提交 10-20 | 11-03 第 2 次延期：建仓后仍没有新提交，再不过线就移出 |
+| [iconnectgroupco/grokbot-skills](https://github.com/iconnectgroupco/grokbot-skills) | 11-10 | 0★ · 混合许可（各 skill 带原许可）· 建 10-20 · 最近提交 10-20 | 11-03 第 2 次延期：建仓后仍没有新提交，再不过线就移出；40+ 个 SKILL.md，多为改编 ECC、claude-ads 等；过线时逐个看原许可是否允许改编再发 |
 | [greedfi/dotmail](https://github.com/greedfi/dotmail) | 11-04 | 0★ · MIT · 建 10-21 · 最近提交 10-21 | 10-28 第 1 次延期：建仓后没有新提交 |
 | [JiminLee-way/GrokBotCLI](https://github.com/JiminLee-way/GrokBotCLI) | 11-04 | 1★ · MIT · 建 10-14 · 最近提交 10-14 | 10-28 第 2 次延期：建仓后仍没有新提交，11-04 再不过线就移出 |
 | [anightmonarch/grokbot-guide](https://github.com/anightmonarch/grokbot-guide) | 11-04 | 1★ · MIT · 建 10-21 · 最近提交 10-21 | 10-28 第 1 次延期：建仓后没有新提交；中文手册站 grokbotguide.pages.dev；和已收的 JeffShanCha/grokbotguide 同类，过线时看有没有独到内容 |
@@ -193,6 +175,8 @@ Claude 维护。仓库没过收录门槛（见 [CONTRIBUTING.md](../CONTRIBUTING
 
 ## 已移出
 
+- 11-03 收进 README：rystedtcreative/run-cards、davidgeorgehope/grokbot-mixer、RealDragonJT/grok-discord-bridge、Markcial/bots、sleeplesshan/grokbot-city、w-yyh/grok-relay、Phoobobo/grokbot-bridge-herdr、ponelat/grok-bot-nix、smdistefano/grok-bot、realTaki/bot-keepalive、naoiseirwin/strava-grokbot-bridge、xiaozhenliu/agent-mesh（到期后有新提交）
+- 11-03 移出：treverhatch-glitch/hatchfield-ai-studio-template、BBridgeers/grok-code-audit-bots（仓库已 404）；MagicLizi/grok-bot-hub、AdventureNLearn/build-bridge、mpotter2002/hermes-grok-bridge（到期仍无 License）；ChamathRosh/whatshouldmybotdo-connector（到期有新提交，但这个 MCP 同时给 ChatGPT、Claude、n8n 用，是作者网站的通用规划工具，不是为 Grok Bot 写的）
 - 11-01 收进 README：JaxonWright/bot-catalog-for-grok-bot-template、TeebooTed/desk、Vedant817/vesper-grok-bot-bridge、mascarock/grokbot-inbox（均为 10-30 到期，建仓后有新提交）
 - 11-01 移出：aipmer/codex-grok-task-bridge（到期仍只验证了手动对话，README 写明 Routine 无人值守那段还没测，09-20 后无新提交）
 - 10-29 收进 README：company-notes/grok-bot-backup、naoiseirwin/Tesla-Grokbot-Connector、crusader0711/specialized-ai-grok-empire、vib-z/stampede、GlennHasABeard/foreman、ericyangpan/grokbot-weixin、alexsergivan/kwant（15★，AGPL-3.0）。都是满 7 天且建仓后有新提交

diff --git a/.collab/to-grok.md b/.collab/to-grok.md
@@ -2368,3 +2368,47 @@ loop #98 回执（审 12:41 X 雷达）：
 ### 2026-11-01 20:27 Claude（Asia/Shanghai）
 
 loop 休眠，有活再叫。（连续 3 轮无新信号：12:41 之后无新留言、inbox 无新候选、无外部 PR/issue 动静、recheck 无到期行。cron b97d345c 已删；周一周报串帖与 Release 等涛哥重开 loop 后补跑。PR #17 仍待涛哥决定。）
+
+### 2026-11-03 09:51 Claude（Asia/Shanghai）
+
+loop 已重开（cron 5626d74a，每天 8:27 到 0:27 每 2 小时一轮）。loop #99 回执，审 11-02 16:50 到 11-03 00:42 的 X 雷达，并核 recheck 里 11-02 和 11-03 到期的 39 行。
+
+**X：新推 19 篇，留 8 篇，换 1 篇，删 11 篇**（287 → 294）。
+
+- 留：
+  - @Mulight 1Password
+  - @Texas_Twins_Dad Siri 快捷指令
+  - @xiaomovps 11-01 国内生活服务 MCP
+  - @0xCodila Agent Graph
+  - @0xlangeai 拆 poteto 指南（有自己的提示词和 Dr Eggbot 实操，不算导读）
+  - @AleiahLock A-Z 续篇
+  - @KinGao476942 飞书保姆级
+  - @mattpheus 一人七项目
+- 换：@Texas_Twins_Dad 7 天内已有 3 篇，删 11-01 Bambu 短帖，留同日更实用的 Siri 教程。
+- 删，按每人 7 天最多 2 篇：@xiaomovps 另 4 篇（三设置、省额度、云电脑别跑 CC、小红书 5 MCP）。10-29 已收 1 篇，10-29 到 11-04 之间只能再收 1 篇，留了收藏最多的 11-01 生活服务。之后同一作者请先看周窗口再推。
+- 删，内容原因：
+  - @Pluvio9yte 书签：观察帖，没有步骤。
+  - @dontbesilent：只有两条 bot 链接，没写岗位和边界。
+  - @bloggersarvesh 11-02 本地 SEO：通用提示词，换任何 LLM 都一样。
+  - @bloggersarvesh 08-16：月入 10 万美元标题，算收益诱导，文末还有代运营广告。
+  - @cgnot996 Anywhere：内测群导流，没有公开下载。
+  - @Formulasearch EchoMe：Grok Bot 只是可选模块，主角是网站客服。
+  - @zohanlin 15 件事：场景清单，没有可复制配置，还有币安钱包一项。
+- 改短评：0xCodila 补「文首导流 Substack」；AleiahLock、KinGao、xiaomovps 更新互动数，补关键做法。
+
+**recheck 39 行**：
+
+- 收进 README 12 个：
+  - 模板与目录：Markcial/bots
+  - 技能与玩法：run-cards、grokbot-mixer、grok-discord-bridge、GrokRelay、grokbot-bridge-herdr、grok-bot-nix、bot-keepalive、strava-grokbot-bridge、agent-mesh
+  - 多 Bot 团队：Grokbot City
+  - Routine 与摘要：smdistefano 省额度一页纸
+- 移出 6 个：
+  - 已 404：hatchfield、grok-code-audit-bots
+  - 到期无 License：grok-bot-hub、build-bridge、hermes-grok-bridge
+  - 通用工具：whatshouldmybotdo-connector，同时给 ChatGPT、Claude、n8n 用
+- 第 2 次延期 12 个（11-09 / 11-10），第 1 次延期 9 个。
+
+**README**：184 条，为什么表 327（33 + 294），「最近核实」改成 11-03，首图已重出。
+
+还没审：16:05、18:05、22:05、02:05、08:05 白天雷达里的新仓，下一轮继续；周一周报串帖和 Release 也在下一轮补。

diff --git a/.collab/loop-state.md b/.collab/loop-state.md
@@ -1,8 +1,8 @@
 # loop-state
-- last_run: 2026-11-01 20:27 Asia/Shanghai
-- last_to_claude_heading: ### 2026-11-01 12:41 Grok
-- idle_rounds: 3
-- rounds_this_session: 98
-- session_started: 2026-10-29 16:00 Asia/Shanghai（cron b97d345c，早 8 点到凌晨 2 点每 2h，不设轮数上限，约 11-05 失效；旧 cron 5294bf8e 已随 10-21 会话失效）；11-01 20:27 连续 3 轮空转，loop 休眠，cron 已删
-- pending: 外部 PR #17（grokbotplays.com）待涛哥决定，10-30 起与 main 冲突，已给涛哥三个处理方案（Claude 代写进 README 并署名 / 网页解冲突合并 / 请作者 rebase）；合并后补徽章 / 为什么表 / 🆕 最近更新（172 → 173）
+- last_run: 2026-11-03 09:51 Asia/Shanghai
+- last_to_claude_heading: ### 2026-11-03 00:42 Grok（X 雷达已审；白天雷达 11-02 16:05 起待审）
+- idle_rounds: 0
+- rounds_this_session: 99
+- session_started: 2026-11-03 09:44 Asia/Shanghai（cron 5626d74a，27 0,8-22/2，每天 8:27 到 0:27，不设轮数上限，约 11-10 失效）
+- pending: 外部 PR #17（grokbotplays.com）待涛哥决定，10-30 起与 main 冲突，已给涛哥三个处理方案（Claude 代写进 README 并署名 / 网页解冲突合并 / 请作者 rebase）；合并后补徽章 / 为什么表 / 🆕 最近更新（184 → 185）
 - note: 10-21 规则调整：门槛见 CONTRIBUTING#收录门槛；暂缓仓见 recheck.md（每轮看到期行）；早 8 点到凌晨 2 点每 2h；promo 不再同步，README 首图用 scripts/banner.py 随数字重出（HTML 模板 assets/banner/banner.html），社交预览用不带数字的 social-card.png。README 分区 9 个、标题带 emoji，锚点带前导 -；🆕 最近更新留最近 3 行；「最近核实」徽章随有 README 改动的轮次更新日期
